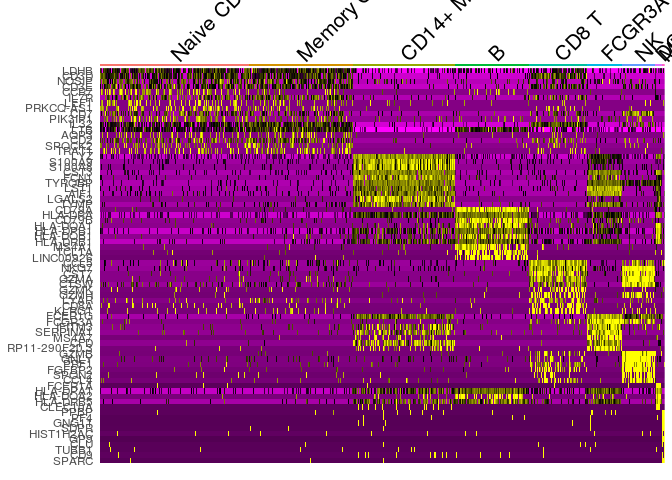
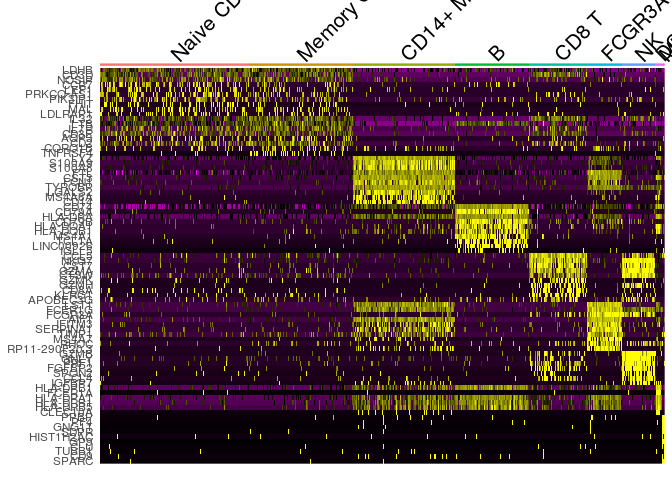
change image, change logFC to expm1, and update the document

diff --git a/src/Venice.cpp b/src/Venice.cpp
@@ -366,7 +366,7 @@ std::vector<struct GeneResult> VeniceTest(
             int r = c_it.row();
 
             exp[r].push_back({*c_it, cid});
-            total_exp[r][cid] += (*c_it);
+            total_exp[r][cid] += expm1(*c_it);
             --zero_cnt[r][cid];
         }
     }
